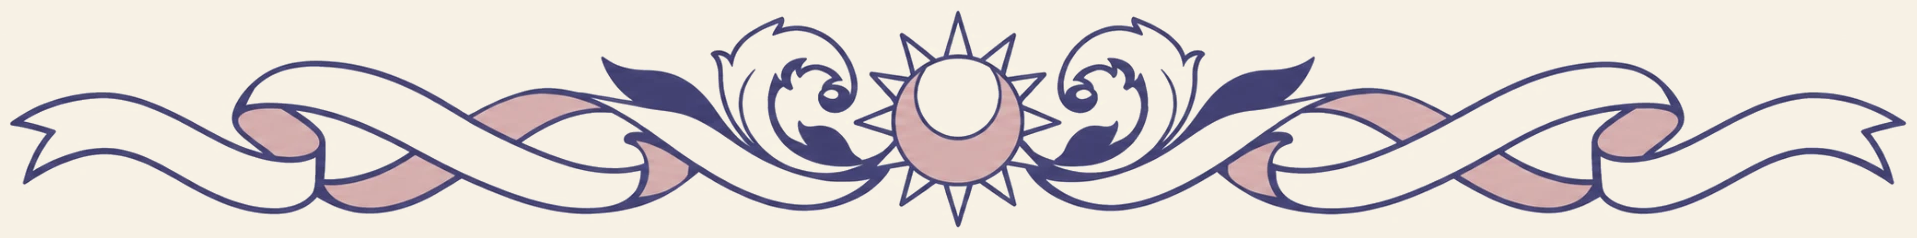
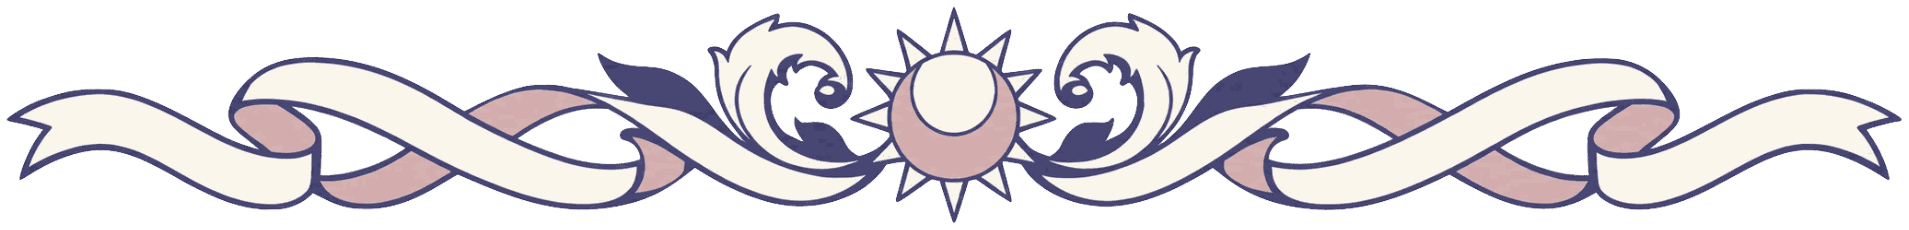
Float the divider across the join, on the transparent artwork
Replaces the cream-ground version. That one needed a band painted behind it,
because its ribbon faces were the same cream as its ground and there was no
way to cut it out. This one arrives with a transparent ground, so it needs no
band at all: it sits across the join itself, half over the photograph and
half over the page below, and the straight edge it used to sit under is gone.

The overlap is derived rather than guessed. The block takes the artwork's own
height — its width over its 8.3:1 ratio — and half of that is taken back off
the top, so it straddles exactly at any width without anything measuring
anything at runtime. Checked at both ends: 50px above and 50px below on a
desktop, 23 and 23 on a phone.

Served as a PNG, and the webp that was beside it is gone. The drawing is flat
colour, so reduced to a palette the PNG is 43KB against the webp's 78KB, and
magnified the two cannot be told apart. Smaller and supported everywhere
leaves the second format nothing to do.

The band is marked pointer-events: none, so a decoration lying over the top
of the welcome section cannot swallow a click meant for it.

diff --git a/assets/js/site.js b/assets/js/site.js
@@ -511,21 +511,22 @@
      curves produced wavy shapes rather than a ribbon — folds, furls and
      swallowtail ends are illustration, and a sine wave does not become one.
 
-     The artwork's ground is the same cream as its ribbon faces: the ribbon is
-     described by its navy outline, not by filling it differently. So the
-     background cannot be made transparent without hollowing the ribbon out,
-     and the band is painted cream to meet it. The file's cream was shifted to
-     match --brand-cream exactly, so the join does not show.
+     The file has a transparent ground, so it needs no band behind it: it sits
+     across the join itself, half on the photograph and half on the page. The
+     overlap is worked out in the stylesheet from the artwork's proportions,
+     so nothing here has to measure anything.
+
+     A PNG rather than the webp that was tried alongside it: the drawing is
+     flat colour, so reduced to a palette it comes to 43KB against the webp's
+     78KB, and the two are indistinguishable magnified. Smaller and supported
+     everywhere leaves nothing for the second format to do.
      ================================================================== */
   function divider(kind) {
     if (!kind || kind === "none") return "";
-    var base = ROOT + "assets/img/divider-" + kind;
     return '<div class="dv" role="presentation">' +
-      "<picture>" +
-        '<source srcset="' + esc(base + ".webp") + '" type="image/webp">' +
-        '<img class="dv__art" src="' + esc(base + '.png') + '" alt=""' +
-          ' aria-hidden="true" decoding="async">' +
-      "</picture></div>";
+      '<img class="dv__art" src="' +
+        esc(ROOT + "assets/img/divider-" + kind + ".png") + '" alt=""' +
+        ' aria-hidden="true" decoding="async"></div>';
   }
 
   /* ======================================================================

diff --git a/assets/css/styles.css b/assets/css/styles.css
@@ -479,22 +479,25 @@ a.card:hover { border-color: var(--brand-accent); box-shadow: var(--shadow-md); 
 }
 
 /* --- Section divider ------------------------------------------------------
-   A band of crest motifs where two sections meet. The ground is cream because
-   the artwork's is: its ribbon faces are the same cream, described by their
-   navy outline rather than by a different fill, so there is no transparent
-   version of it to float over something else. */
+   A band of crest motifs where two sections meet, in place of a straight line
+   between two background colours.
+
+   The artwork has a transparent ground, so it is not given a band of its own:
+   it straddles the join, half over the photograph and half over the page
+   below. Its own height is worked out from its proportions, and half of that
+   is taken back off the top — so the overlap stays true at any width without
+   anything being measured in JavaScript. */
 .dv {
-  background: var(--brand-cream);
+  --dv-w: min(100%, 1100px);
+  --dv-h: calc(var(--dv-w) / 8.3);   /* the file is 1909x230 */
+  position: relative;
+  z-index: 3;                        /* over the hero's scrim */
   display: flex;
   justify-content: center;
-  padding-block: var(--space-5);
+  margin-top: calc(var(--dv-h) / -2);
+  pointer-events: none;              /* decoration; never in the way */
 }
-.dv__art {
-  /* Scales with the page up to a limit, past which a decorative band would
-     start to dominate. It stays legible down to a phone: the centre is the
-     part that has to read, and it is the part that survives the shrinking. */
-  width: min(100%, 1100px);
-}
+.dv__art { width: var(--dv-w); }
 
 /* Welcome-section photo sits beside the intro copy. */
 .welcome__photo { aspect-ratio: 4 / 3; border-radius: var(--radius-lg); }

diff --git a/data/site.js b/data/site.js
@@ -93,7 +93,7 @@ window.CHAO_SITE = {
     tagline: "Home of the Chaosens",
     /* Architectural rendering of the college. Master in brand/photo-originals/. */
     /* The band between the hero and the welcome section. Names the artwork in
-       assets/img (divider-<name>.webp / .png), or "none" for a plain edge. */
+       assets/img (divider-<name>.png), or "none" for a plain edge. */
     divider: "ribbon",
     image: "hero.jpg",
     /* Describes the photograph for anyone who cannot see it. Set to null and
